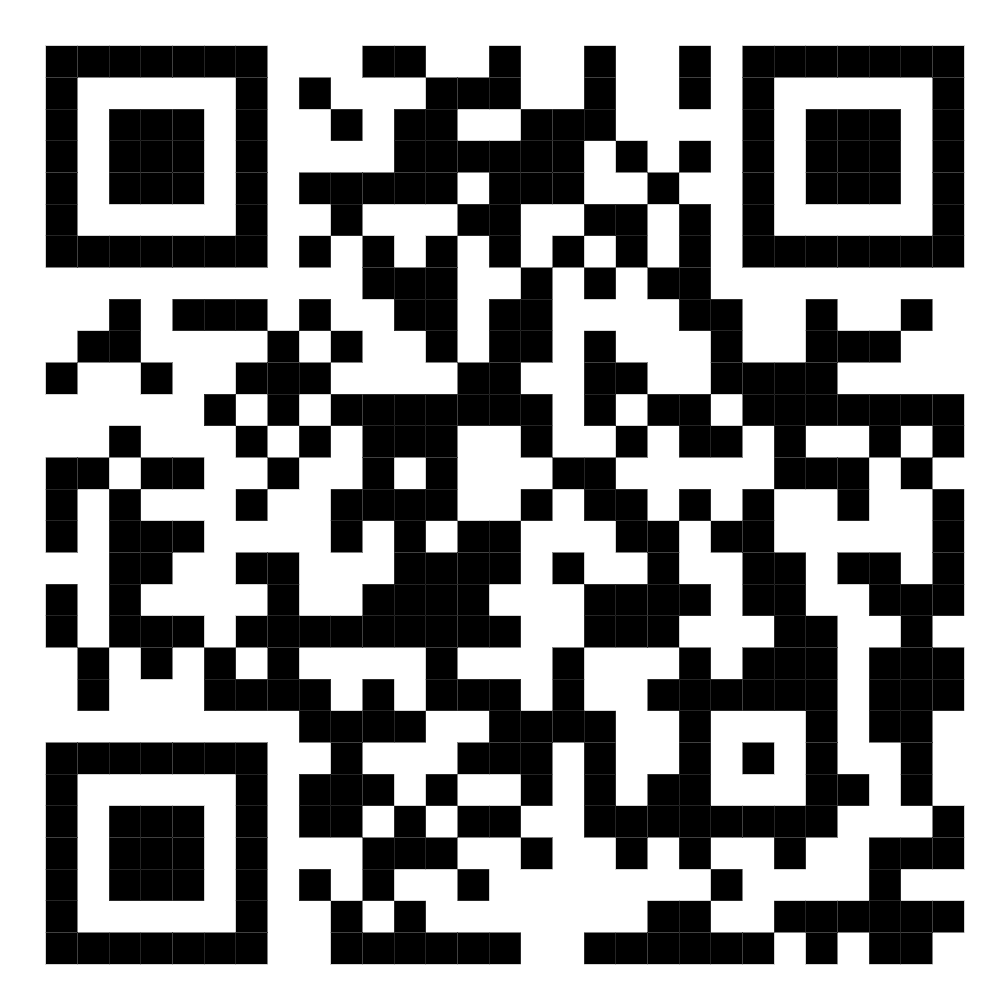
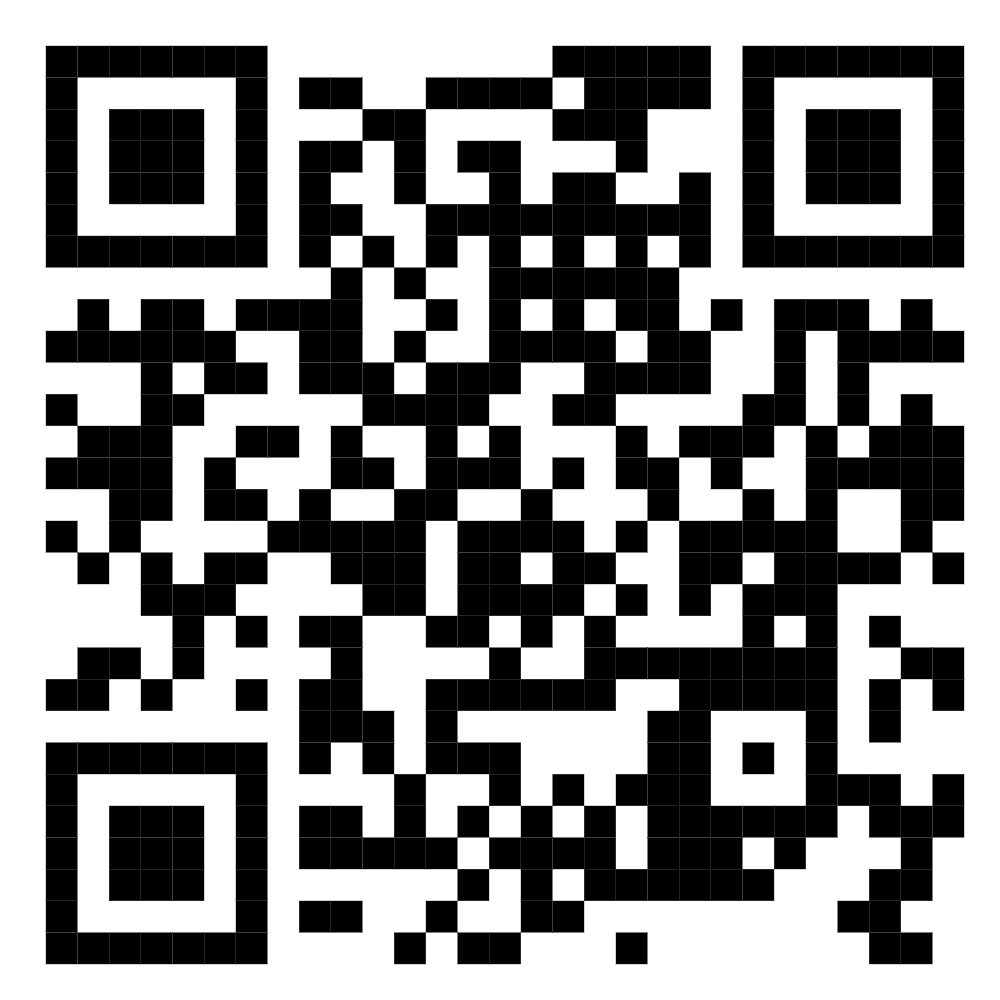
telegram update.

diff --git a/src/WeddingInvitation.jsx b/src/WeddingInvitation.jsx
@@ -841,7 +841,7 @@ function WeddingInvitation() {
                 </p>
                 <a
                   className="w-full max-w-xs mx-auto py-3 rounded-full bg-[#1e96d3] hover:bg-[#1880b4] text-white font-semibold text-sm flex items-center justify-center gap-2 shadow-lg transition-transform active:scale-95"
-                  href="https://t.me/+p8C9d8XTIsBiZGQ0"
+                  href="https://t.me/jituandfikre"
                   rel="noopener noreferrer"
                   target="_blank"
                 >
